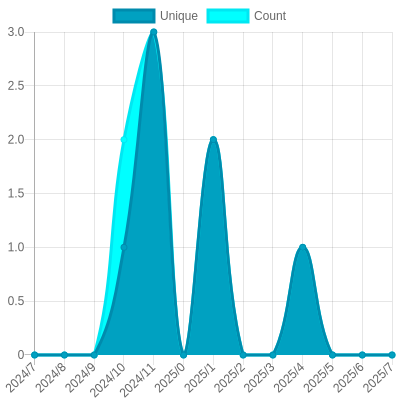
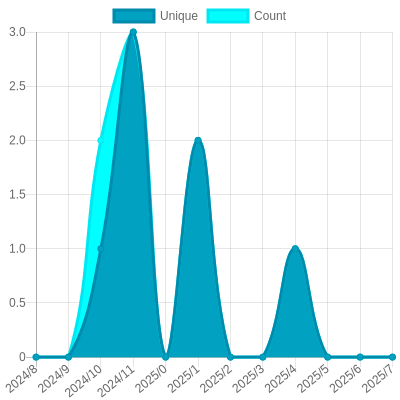
Update views

Changed region(s): [[0.0, 0.06, 0.99, 1.0], [0.0, 0.06, 0.06, 0.09]]

diff --git a/README.md b/README.md
@@ -26,7 +26,7 @@ The project created and maintained by [gayanvoice](https://github.com/gayanvoice
 			</a>
 		</td>
 		<td>
-			2024/8/29 12:58 AM UTC
+			2024/8/30 12:58 AM UTC
 		</td>
 		<td>
 			8
@@ -37,7 +37,7 @@ The project created and maintained by [gayanvoice](https://github.com/gayanvoice
 	</tr>
 </table>
 
-<small><i>Last updated on 2024/8/31 6:15 PM UTC</i></small>
+<small><i>Last updated on 2024/9/1 1:08 AM UTC</i></small>
 
 ## ✂Copy and 📋 Paste
 ### Total Views Badge

diff --git a/readme/631592938/year.md b/readme/631592938/year.md
@@ -150,21 +150,10 @@
 			<code>0</code>
 		</td>
 	</tr>
-	<tr>
-		<td>
-			<code>2023/8/1</code>
-		</td>
-		<td>
-			<code>0</code>
-		</td>
-		<td>
-			<code>0</code>
-		</td>
-	</tr>
 </table>
 
 </details>
-<small><i>Last updated on 2024/8/31 6:14 PM UTC</i></small>
+<small><i>Last updated on 2024/9/1 1:08 AM UTC</i></small>
 
 ## ✂Copy and 📋 Paste
 ### SVG Badge
